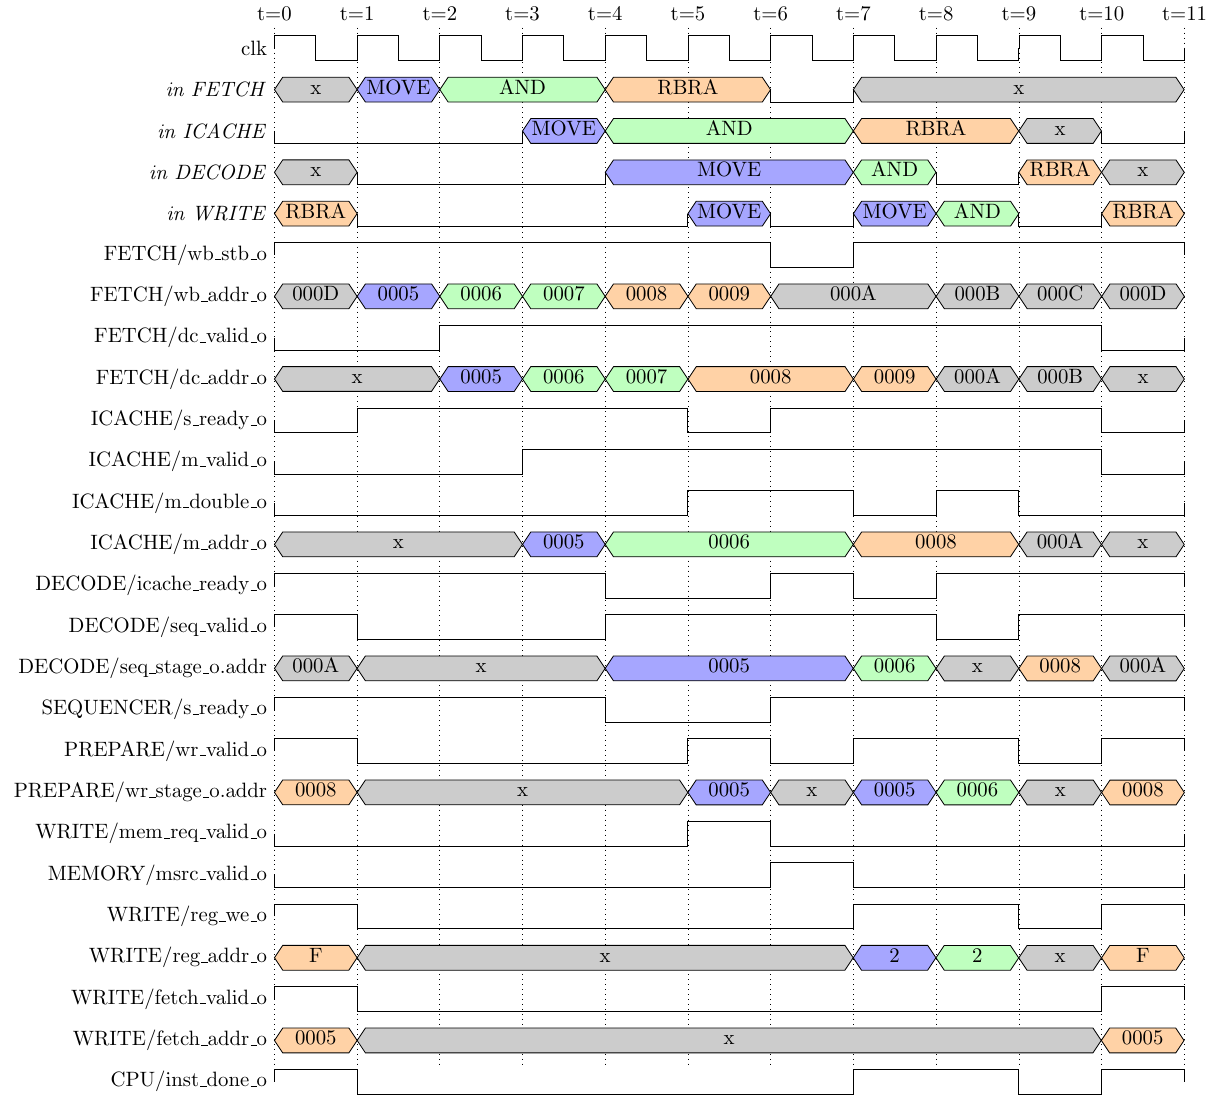
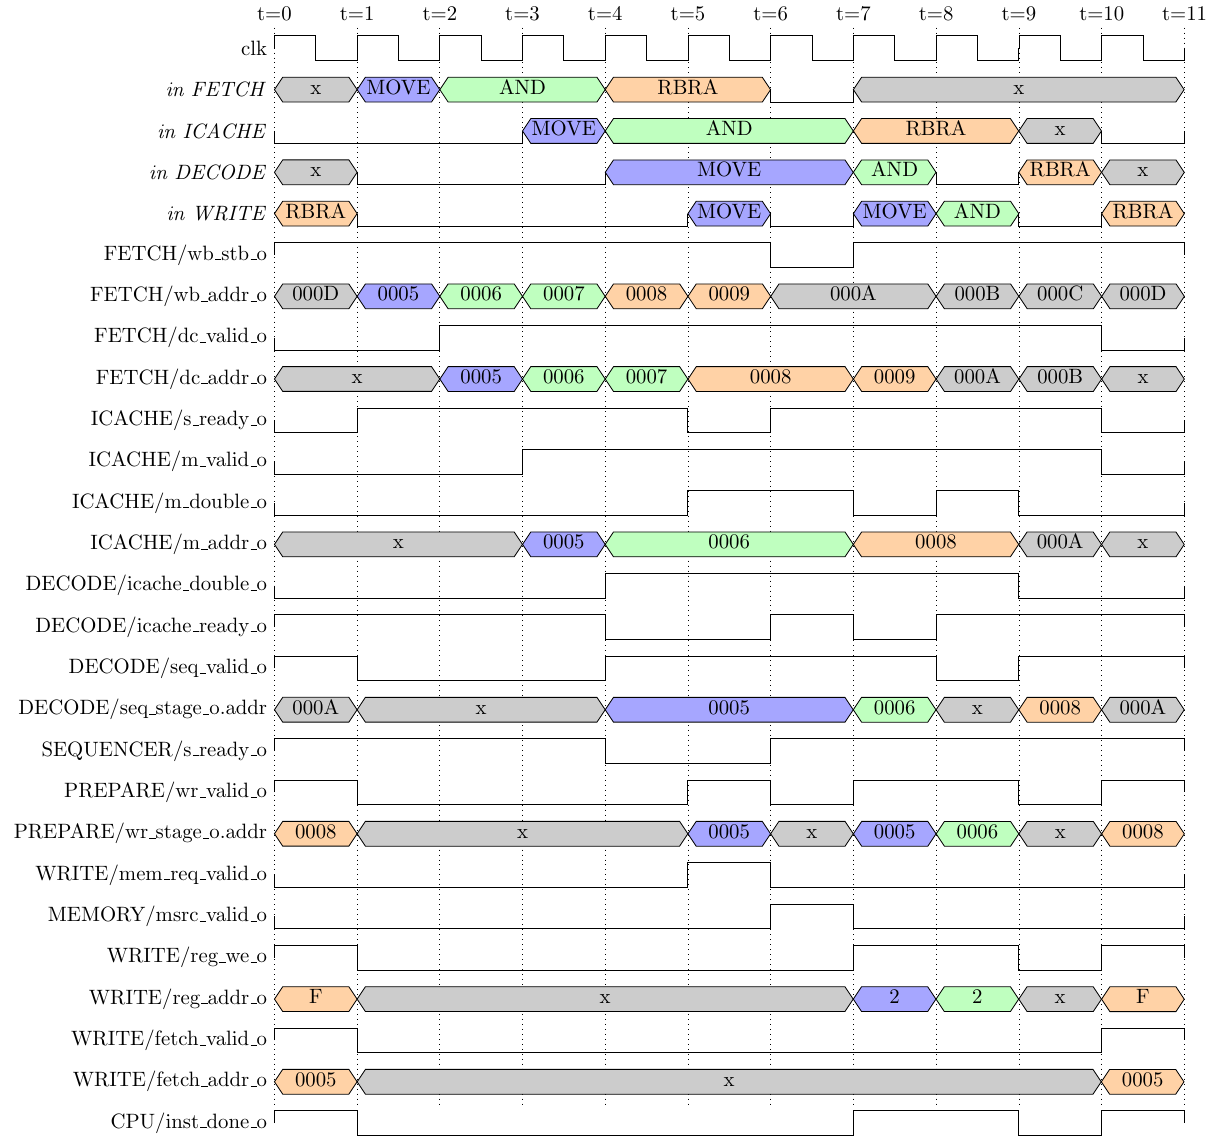
doc: Add DECODE/icache_double_o to loop_timing
Values read off a fresh GHDL run of test/prog_poll.asm over the same
350..450 ns window as the rest of the diagram.

Claude-Session: https://claude.ai/code/session_01XbiK2etbhHo3tabfMH4LWt

diff --git a/doc/loop_timing.tex b/doc/loop_timing.tex
@@ -24,10 +24,11 @@
 %
 % Every row is named after the module that DRIVES it, so all of them are output
 % ports (*_o).  Where a link's two ends have different names, the name used is
-% the driver's: DECODE/icache_ready_o is what ICACHE sees as m_ready_i,
-% SEQUENCER/s_ready_o is what DECODE sees as seq_ready_i, PREPARE/wr_valid_o
-% and wr_stage_o are what WRITE sees as prep_valid_i and prep_stage_i, and
-% WRITE/reg_we_o and reg_addr_o are what REGISTERS sees as wr_en_i and wr_reg_i.
+% the driver's: DECODE/icache_ready_o and icache_double_o are what ICACHE sees
+% as m_ready_i and m_double_i, SEQUENCER/s_ready_o is what DECODE sees as
+% seq_ready_i, PREPARE/wr_valid_o and wr_stage_o are what WRITE sees as
+% prep_valid_i and prep_stage_i, and WRITE/reg_we_o and reg_addr_o are what
+% REGISTERS sees as wr_en_i and wr_reg_i.
 %
 % The top four rows are not signals but a summary of the pipeline stage below
 % them, each derived from the valid/address pair drawn further down:
@@ -51,7 +52,7 @@
 \newcommand*{\crbra}[2]{\bitvector{#1}{#2}{orange!35}}
 
 \begin{document}
-\begin{wave}{25}{11}
+\begin{wave}{26}{11}
  \nextwave{\textit{in FETCH}}               \unknown[x]{1} \cmove{MOVE}{1} \cand{AND}{2} \crbra{RBRA}{2} \bit{0}{1} \unknown[x]{4}
  \nextwave{\textit{in ICACHE}}              \bit{0}{3} \cmove{MOVE}{1} \cand{AND}{3} \crbra{RBRA}{2} \unknown[x]{1} \bit{0}{1}
  \nextwave{\textit{in DECODE}}              \unknown[x]{1} \bit{0}{3} \cmove{MOVE}{3} \cand{AND}{1} \bit{0}{1} \crbra{RBRA}{1} \unknown[x]{1}
@@ -64,6 +65,7 @@
  \nextwave{ICACHE/m\_valid\_o}              \bit{0}{3} \bit{1}{7} \bit{0}{1}
  \nextwave{ICACHE/m\_double\_o}             \bit{0}{5} \bit{1}{2} \bit{0}{1} \bit{1}{1} \bit{0}{2}
  \nextwave{ICACHE/m\_addr\_o}               \unknown[x]{3} \cmove{0005}{1} \cand{0006}{3} \crbra{0008}{2} \unknown[000A]{1} \unknown[x]{1}
+ \nextwave{DECODE/icache\_double\_o}        \bit{0}{4} \bit{1}{5} \bit{0}{2}
  \nextwave{DECODE/icache\_ready\_o}         \bit{1}{4} \bit{0}{2} \bit{1}{1} \bit{0}{1} \bit{1}{3}
  \nextwave{DECODE/seq\_valid\_o}            \bit{1}{1} \bit{0}{3} \bit{1}{4} \bit{0}{1} \bit{1}{2}
  \nextwave{DECODE/seq\_stage\_o.addr}       \unknown[000A]{1} \unknown[x]{3} \cmove{0005}{3} \cand{0006}{1} \unknown[x]{1} \crbra{0008}{1} \unknown[000A]{1}
